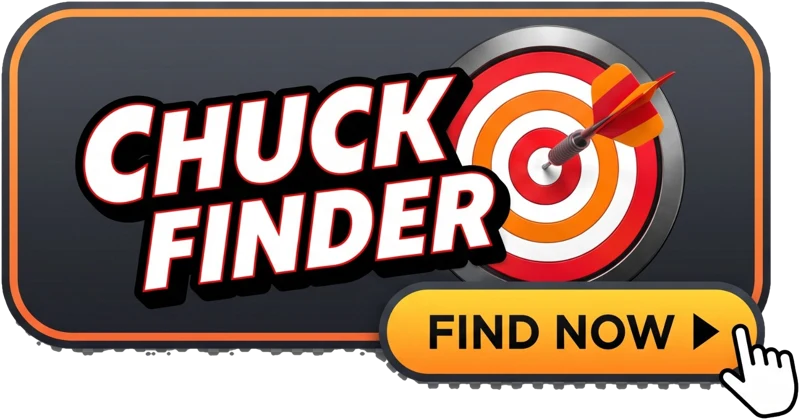
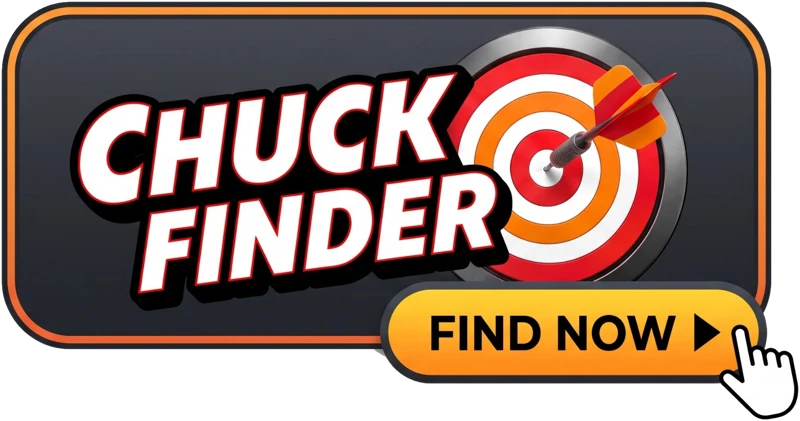
Re-cut ChuckFinder button image from clean white-background source
Claude-Session: https://claude.ai/code/session_0185R7JrH9Tc95wHE1cWifoC

Changed region(s): [[0.0, 0.0, 1.0, 0.9286], [0.9375, 0.9595, 1.0, 1.0]]

diff --git a/index.html b/index.html
@@ -665,7 +665,7 @@ footer {
         <div class="chuckfinder-cta">
             <p>Not sure which chuck or accessory fits your setup?</p>
             <a href="chuckfinder.html" class="chuckfinder-logo-link" rel="noopener" target="_blank" aria-label="Find My Fit with ChuckFinder">
-                <img src="images/chuckfinder-button.webp" alt="ChuckFinder: Find Now" width="800" height="420">
+                <img src="images/chuckfinder-button.webp" alt="ChuckFinder: Find Now" width="800" height="421">
             </a>
         </div>
 
